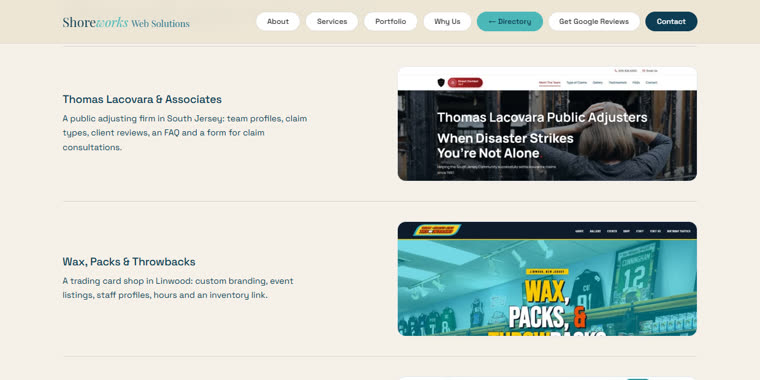
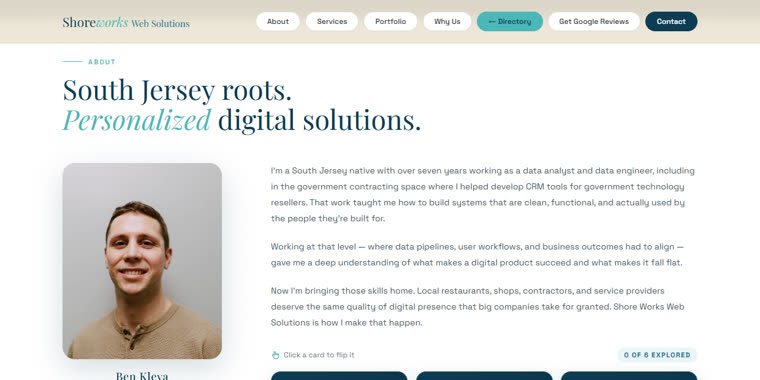
Web Solutions page: Portfolio Websites card shows the Shore Works About section

diff --git a/build-a-website.html b/build-a-website.html
@@ -1068,7 +1068,7 @@ main > #portfolio.work-section:not(.is-live){min-height:0}
 
     <!-- 1. Portfolio -->
     <div class="service-card">
-      <div class="svc-shot"><img class="svc-preview" src="build-a-website-assets/services/portfolio.jpg" alt="The Shore Works Web Solutions portfolio: client sites with their screenshots" width="760" height="380" loading="lazy"></div>
+      <div class="svc-shot"><img class="svc-preview" src="build-a-website-assets/services/portfolio.jpg" alt="The Shore Works Web Solutions About page: Ben Kleva headshot beside his bio" width="760" height="380" loading="lazy"></div>
       <div class="svc-content">
         <div class="svc-name">Portfolio Websites</div>
         <p class="svc-desc">Showcase your work with a polished, professional site that makes a strong first impression — perfect for freelancers, artists, photographers, and creatives.</p>
